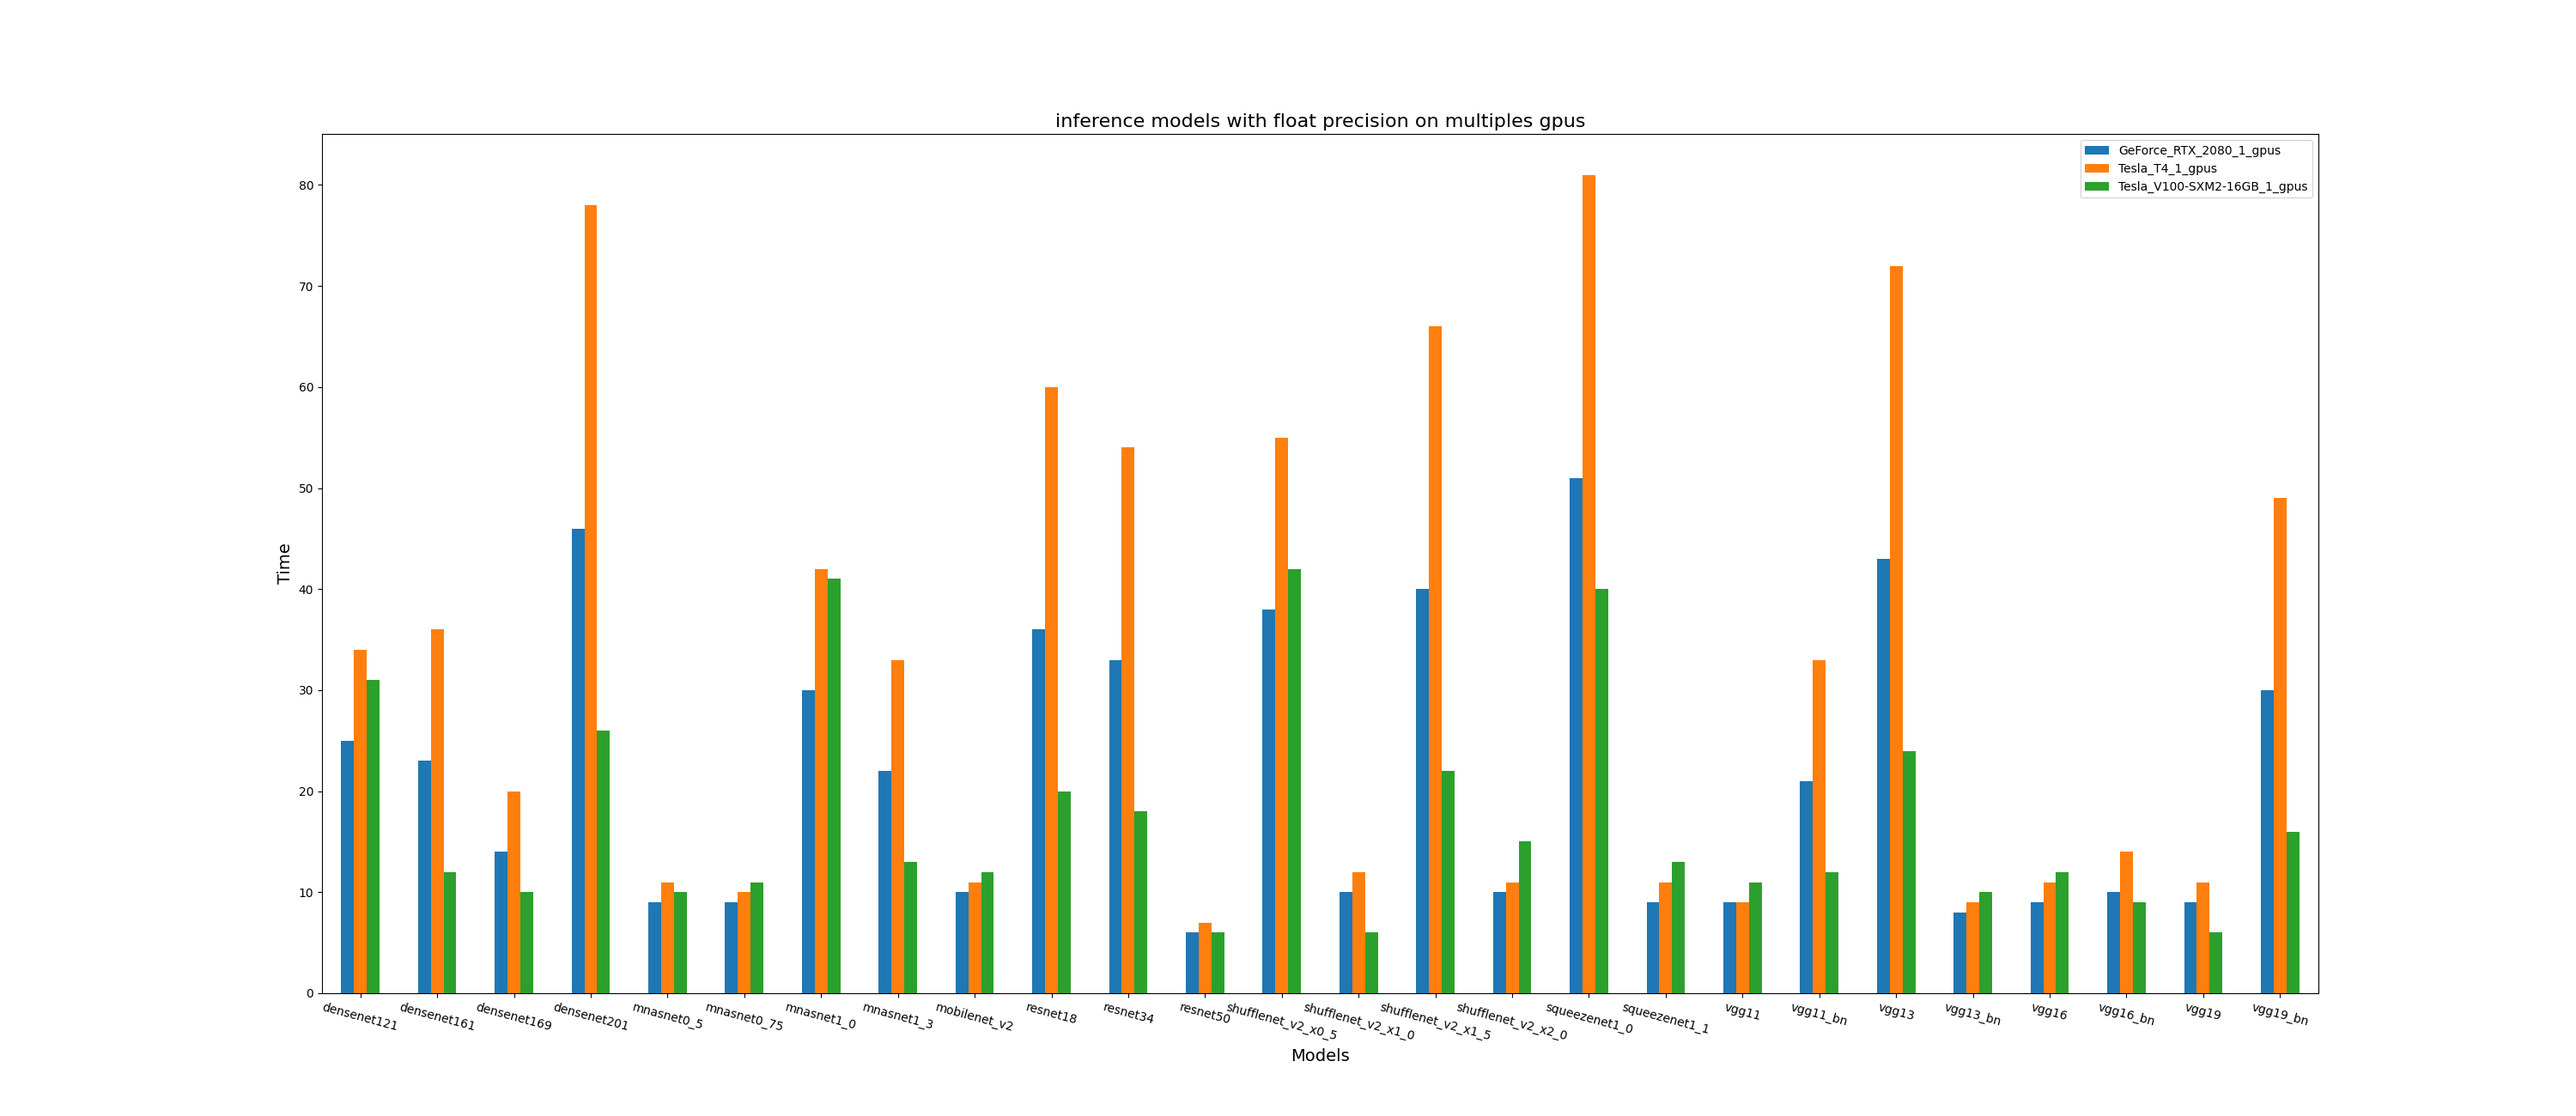
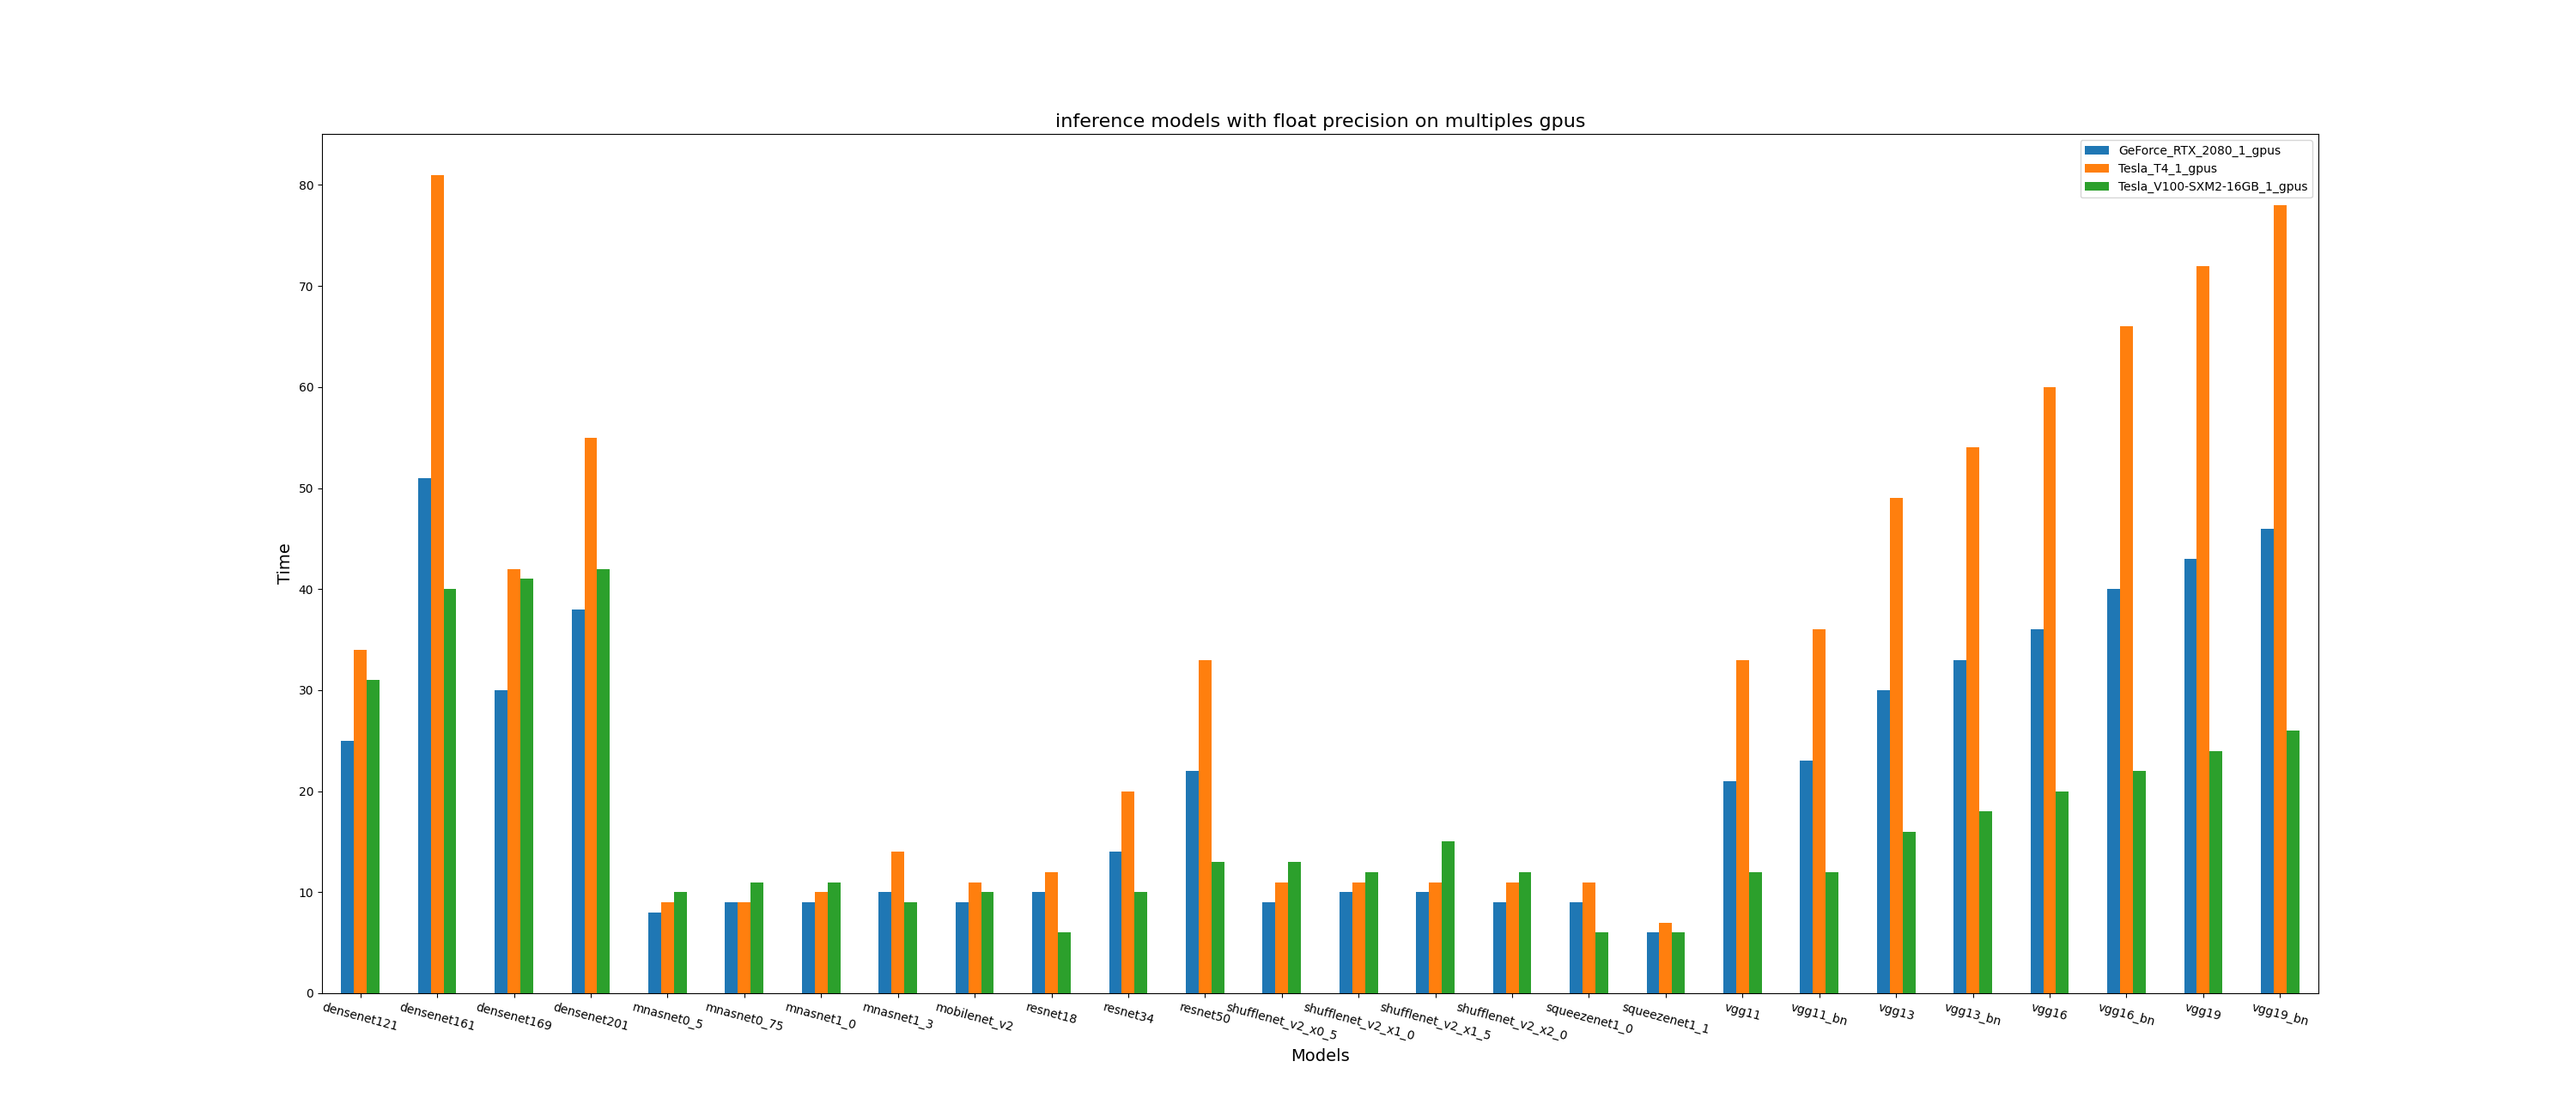
feat(benchmark): sort models and gpus when plot images for models benchmark on mulitple gpus

diff --git a/benchmark_models.py b/benchmark_models.py
@@ -338,8 +338,9 @@ def plot_image_for_compare_model_benchmark_on_multiple_gpus(env,phase,precision,
     if not os.path.exists(gpu_benchmark_images_save_dir):
         os.makedirs(gpu_benchmark_images_save_dir)
     df_gpus_models_time = big_data_frame[(big_data_frame.envs ==env) & (big_data_frame.phases == phase) & (big_data_frame.precisions == precision)]
-
-    models = list(set(df_gpus_models_time['models'].tolist()))
+    df_gpus_models_time = df_gpus_models_time.sort_values(['gpus','models'])
+    
+    models = []
     gpus = list(set(df_gpus_models_time['gpus'].tolist()))
     
     gpus_time_dict = {}
@@ -348,6 +349,8 @@ def plot_image_for_compare_model_benchmark_on_multiple_gpus(env,phase,precision,
             gpus_time_dict[rows.gpus].append(rows.time)
         else:
             gpus_time_dict[rows.gpus] = [rows.time]
+        if rows.models not in models:
+            models.append(rows.models)
 
     plotdata = pd.DataFrame(gpus_time_dict,index = models)
     plotdata = plotdata.sort_index(axis = 1)
@@ -368,7 +371,7 @@ def compare_between_gpus(experiment_result,envs):
     env = 'openbayes'
     gpus_dir = os.path.join(experiment_result,env)
     gpus = get_sub_dir(gpus_dir)
-    if len(gpus)<2:
+    if len(gpus) < 2:
         print("gpus nums is : {}, not compare!".format(len(gpus)))
         return
     
@@ -387,7 +390,7 @@ def statistic_experiment_result(env_name,device_name):
         if os.path.isdir(file_path):
             envs.append(file)
 
-#     different_models_on_same_gpu(experiment_result,envs)
+    different_models_on_same_gpu(experiment_result,envs)
 #     compare_between_gpus(experiment_result,envs)
 
     if len(envs) > 1:
@@ -402,9 +405,9 @@ if __name__ == '__main__':
 
 #     experiment(env_name,device_name)
 
-    statistic_experiment_result(env_name,device_name)
+#     statistic_experiment_result(env_name,device_name)
 
-    # 先写个假的，做测试用
-#     experiment_result = './experiment_results'
-#     env = 'openbayes'
-#     compare_between_gpus(experiment_result,env)
+#     先写个假的，做测试用
+    experiment_result = './experiment_results'
+    env = 'openbayes'
+    compare_between_gpus(experiment_result,env)
